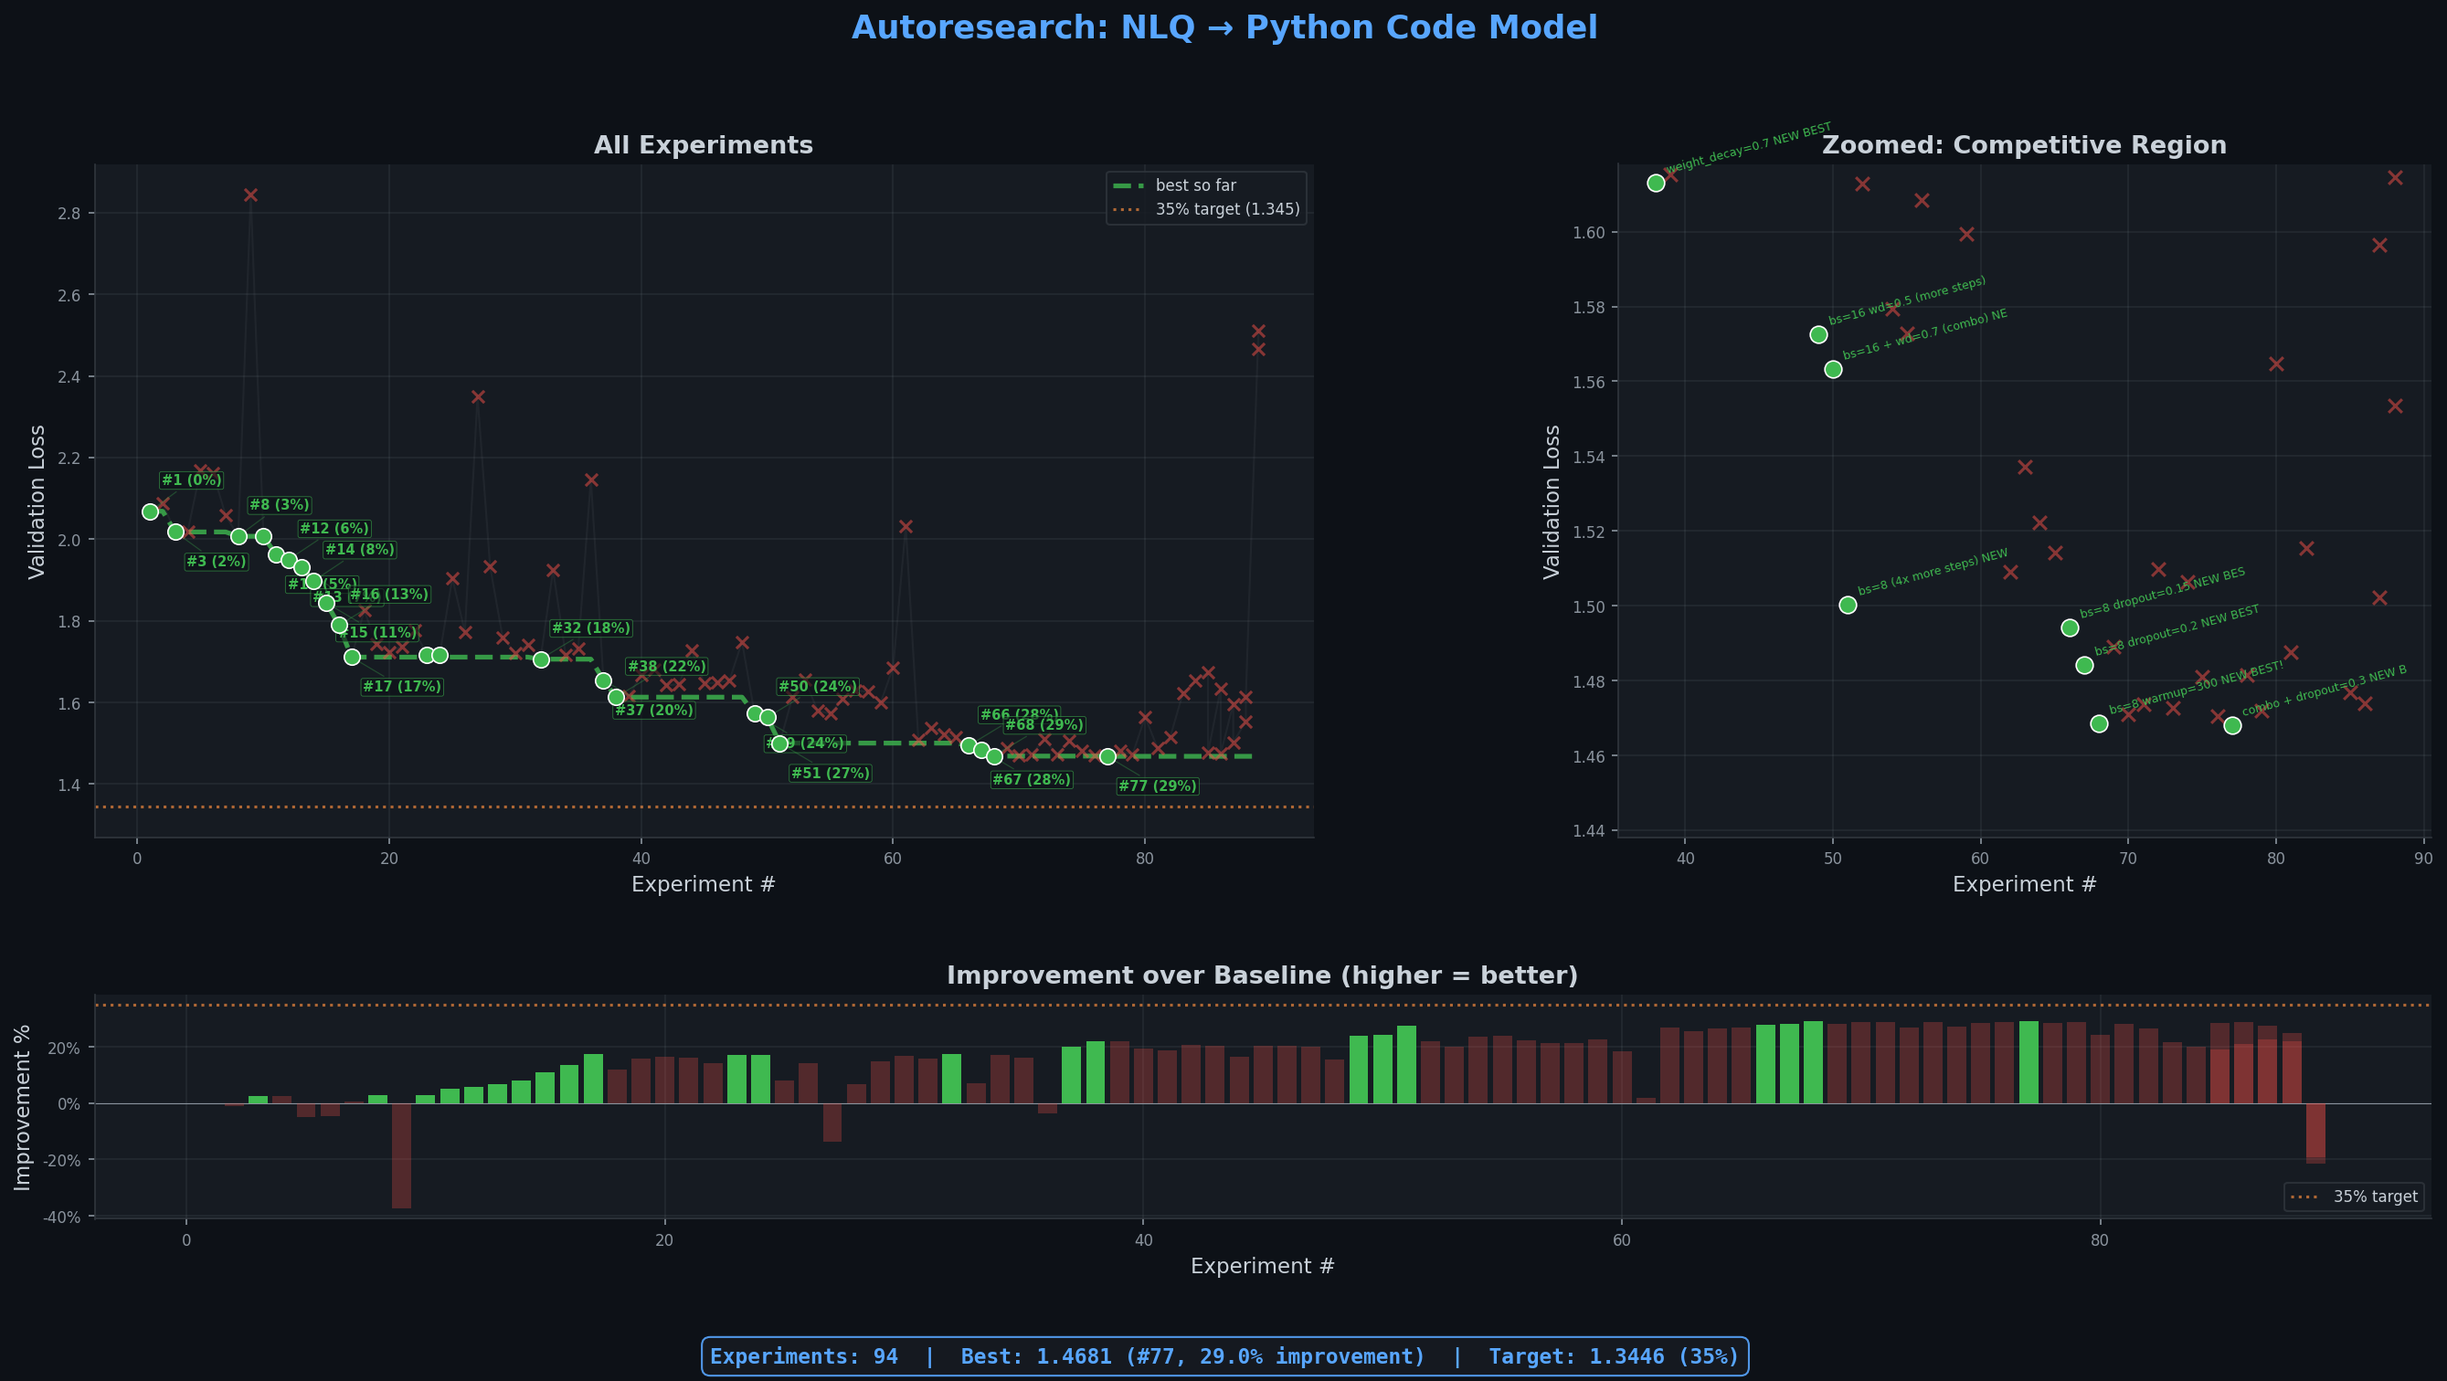
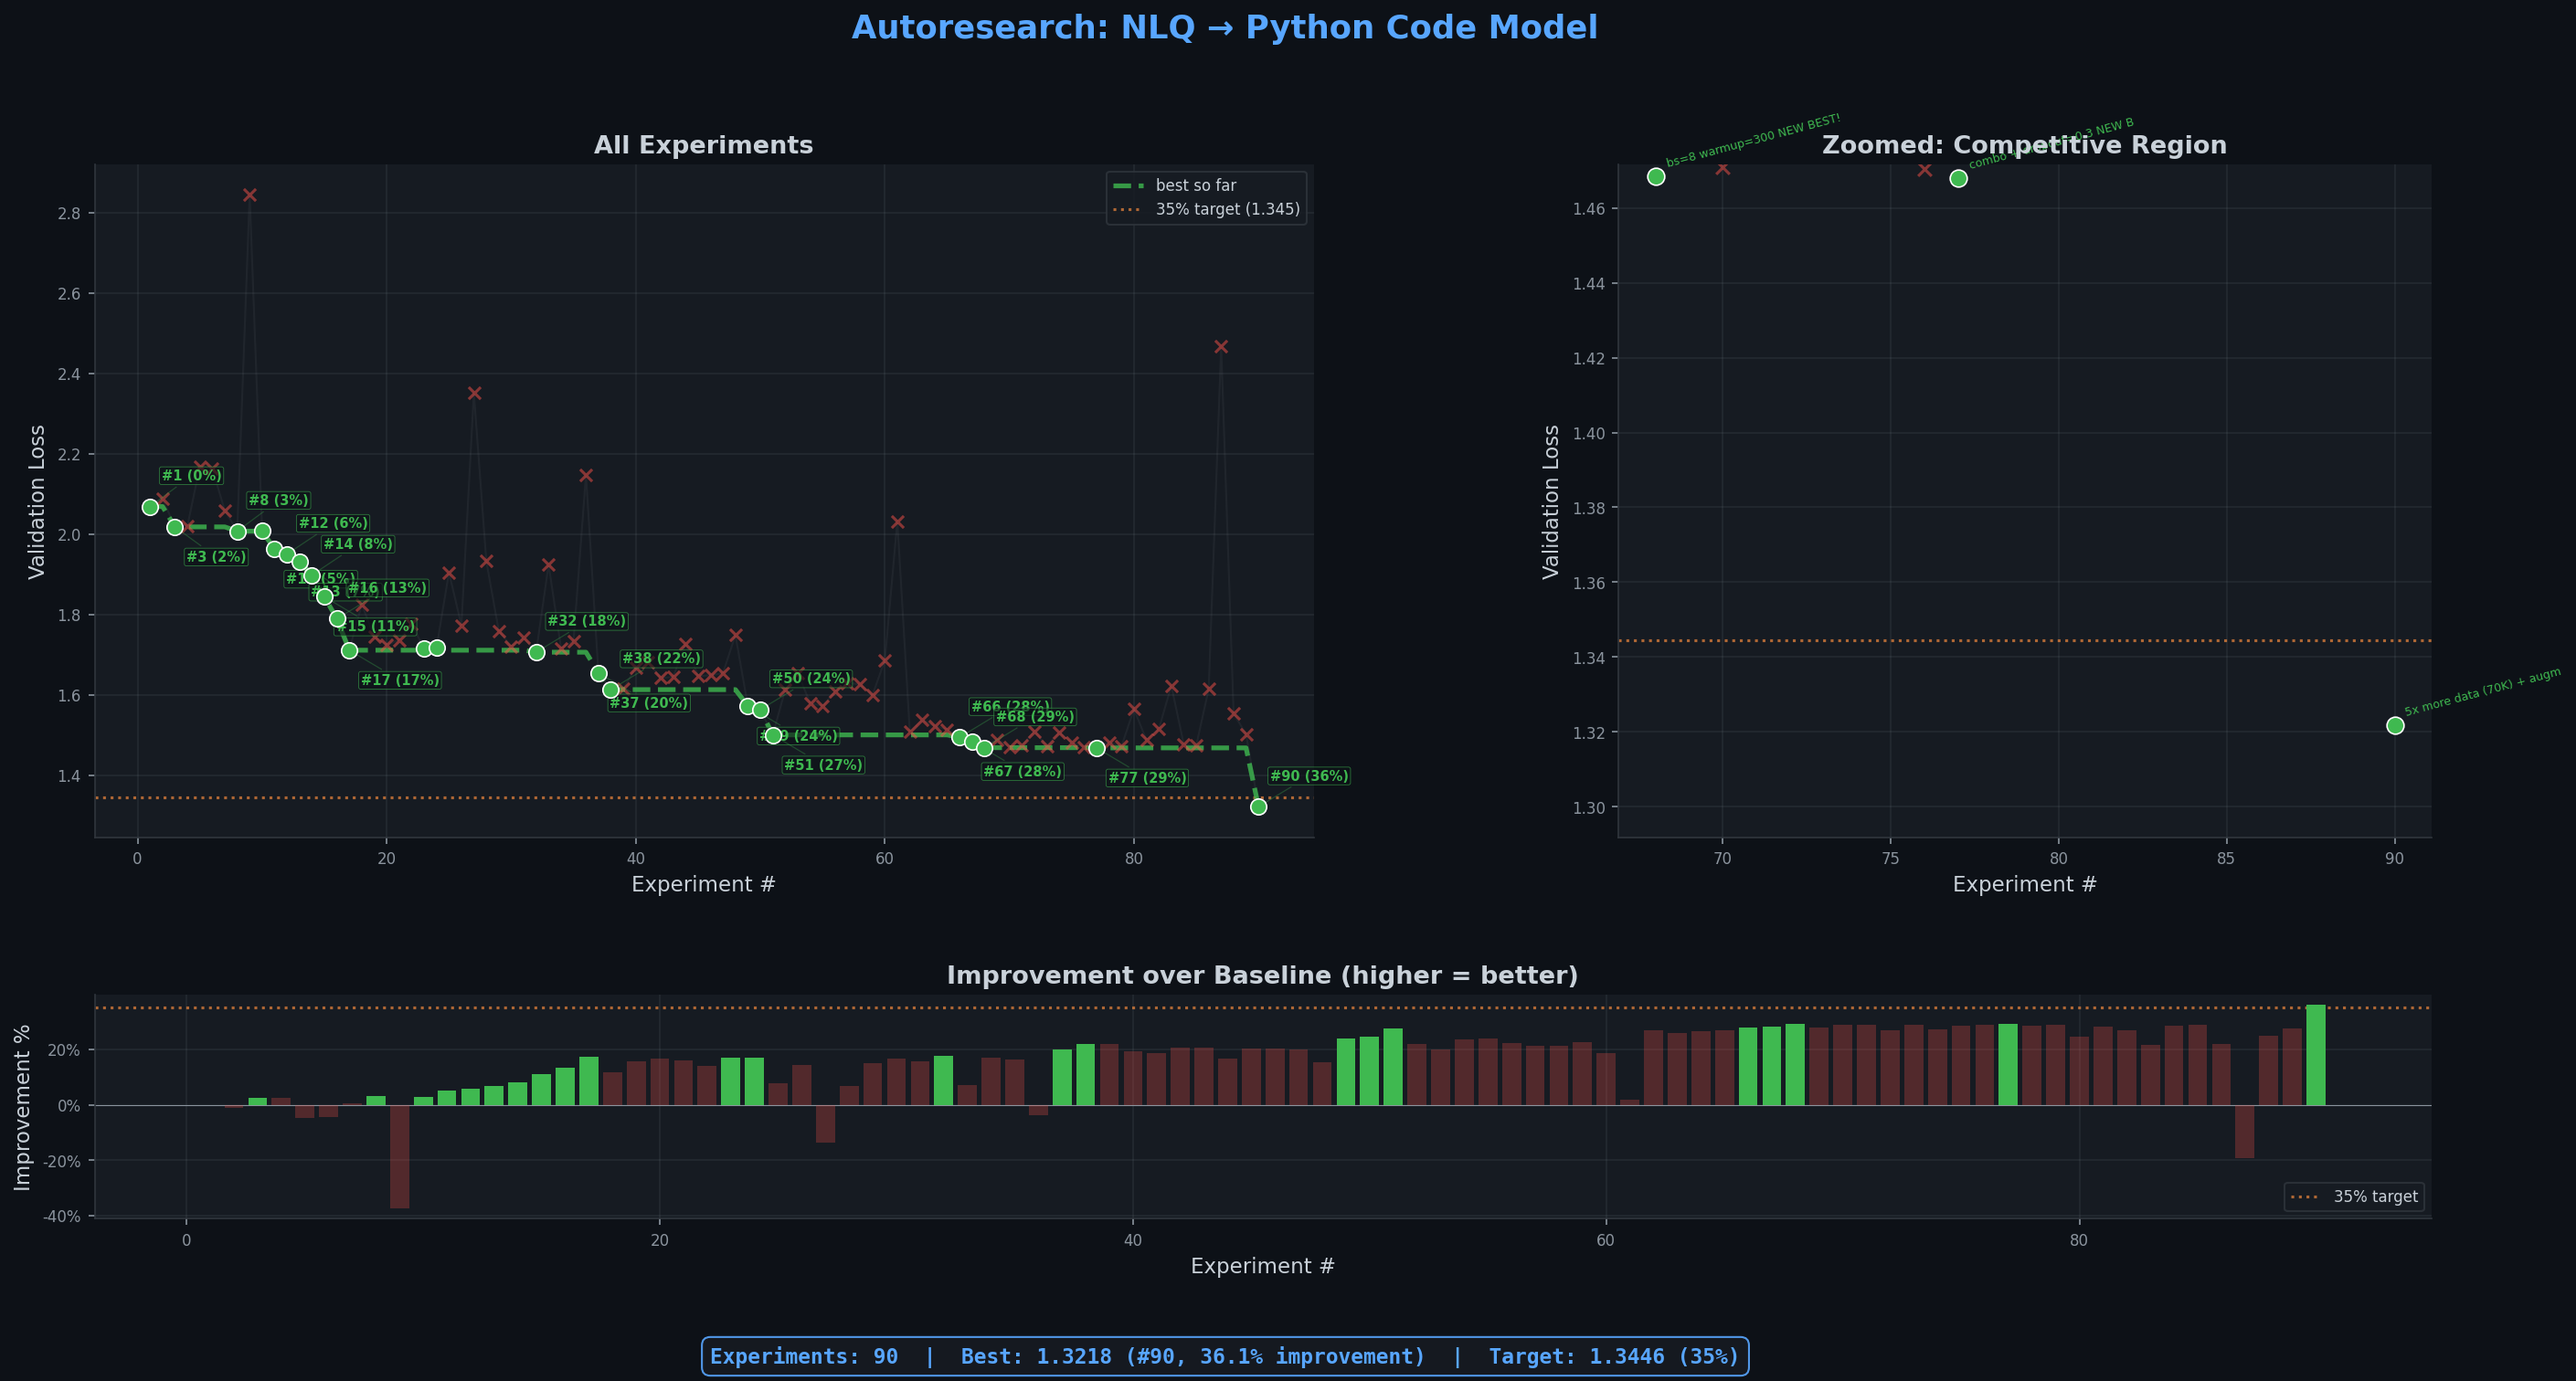
exp 090: 36.1% improvement! 5x more data + augmentation hits 35% target
- Added Evol-Instruct-Code-80k dataset (38.5K Python examples)
- Added instruction augmentation (rephrasing: "Write" -> "Create/Implement/Define")
- 70.6K unique training examples (up from 14.5K)
- Val set kept identical (1,452 examples from original split) for fair comparison
- 10 min training, bs=8, dropout=0.2, wd=0.5, warmup=300
- Val loss: 1.3218 (36.1% improvement over 2.0686 baseline)

diff --git a/download_code_data.py b/download_code_data.py
@@ -37,6 +37,46 @@ def format_example(instruction, code):
     code = code.strip()
     return f"### Question\n{instruction}\n### Python Code\n{code}"
 
+def augment_examples(examples):
+    """Create augmented examples by rephrasing instructions."""
+    rephrase_prefixes = [
+        ("Write a function", "Create a function"),
+        ("Write a function", "Implement a function"),
+        ("Write a function", "Define a function"),
+        ("Write a function", "Code a function"),
+        ("Write a function", "Build a function"),
+        ("Write a program", "Create a program"),
+        ("Write a program", "Implement a program"),
+        ("Write a Python", "Create a Python"),
+        ("Write a Python", "Implement a Python"),
+        ("Write code", "Create code"),
+        ("Write code", "Implement code"),
+    ]
+    augmented = []
+    random.seed(123)  # deterministic augmentation
+    for ex in examples:
+        # Extract instruction from format: "### Question\n{instruction}\n### Python Code\n{code}"
+        parts = ex.split("### Python Code\n", 1)
+        if len(parts) != 2:
+            continue
+        q_part = parts[0]  # "### Question\n{instruction}\n"
+        code = parts[1]
+        instruction = q_part.replace("### Question\n", "").strip()
+
+        # Try each rephrase
+        for old, new in rephrase_prefixes:
+            if instruction.startswith(old):
+                new_instruction = instruction.replace(old, new, 1)
+                augmented.append(format_example(new_instruction, code))
+                break  # one augmentation per example
+        else:
+            # For non-"Write" instructions, add "In Python, " prefix
+            if random.random() < 0.3 and not instruction.startswith("In Python"):
+                augmented.append(format_example(f"In Python, {instruction[0].lower()}{instruction[1:]}", code))
+
+    return augmented
+
+
 def collect_examples():
     """Collect examples from multiple sources."""
     examples = []
@@ -82,11 +122,67 @@ def collect_examples():
     except Exception as e:
         print(f"  Failed to download MBPP: {e}")
 
-    # 3. Generate some synthetic simple examples for more data
+    # 3. Evol-Instruct Code (WizardCoder-style evolved instructions)
+    print("\n--- Evol-Instruct-Code-80k (Python subset) ---")
+    url = "https://huggingface.co/datasets/nickrosh/Evol-Instruct-Code-80k-v1/resolve/main/EvolInstruct-Code-80k.json"
+    try:
+        data = download_json(url)
+        count = 0
+        for item in data:
+            instruction = item.get("instruction", "")
+            output = item.get("output", "")
+            if not output or len(output) < 20:
+                continue
+            # Filter for Python
+            python_markers = ["def ", "import ", "print(", "class ", "return ", " = ", "lambda ", "for ", "while "]
+            # Must look like Python (not Java, C++, etc.)
+            non_python = ["public static", "System.out", "#include", "cout <<", "console.log", "func ", "fn "]
+            if any(m in output for m in python_markers) and not any(m in output for m in non_python):
+                # Skip very long examples (> 1500 chars) to keep seq_len manageable
+                formatted = format_example(instruction, output)
+                if len(formatted) < 2000:
+                    examples.append(formatted)
+                    count += 1
+        print(f"  Collected {count} Python examples from Evol-Instruct-Code")
+    except Exception as e:
+        print(f"  Failed to download Evol-Instruct-Code: {e}")
+
+    # 4. Code Instructions from Alpaca (120k)
+    print("\n--- Code-Instructions-120k (Python subset) ---")
+    url = "https://huggingface.co/datasets/TokenBender/code_instructions_122k_alpaca_style/resolve/main/data.json"
+    try:
+        data = download_json(url)
+        count = 0
+        for item in data:
+            instruction = item.get("instruction", "")
+            output = item.get("output", "")
+            inp = item.get("input", "")
+            if not output or len(output) < 20:
+                continue
+            if inp:
+                instruction = f"{instruction}\nInput: {inp}"
+            python_markers = ["def ", "import ", "print(", "class ", "return ", " = ", "lambda "]
+            non_python = ["public static", "System.out", "#include", "cout <<", "console.log"]
+            if any(m in output for m in python_markers) and not any(m in output for m in non_python):
+                formatted = format_example(instruction, output)
+                if len(formatted) < 2000:
+                    examples.append(formatted)
+                    count += 1
+        print(f"  Collected {count} Python examples from Code-Instructions-120k")
+    except Exception as e:
+        print(f"  Failed to download Code-Instructions-120k: {e}")
+
+    # 5. Generate some synthetic simple examples for more data
     print("\n--- Synthetic examples ---")
     synthetic = generate_synthetic_examples()
     examples.extend(synthetic)
     print(f"  Generated {len(synthetic)} synthetic examples")
+
+    # 6. Data augmentation — rephrase instructions
+    print("\n--- Augmenting via instruction rephrasing ---")
+    augmented = augment_examples(examples)
+    examples.extend(augmented)
+    print(f"  Generated {len(augmented)} augmented examples")
 
     return examples
 
@@ -152,8 +248,13 @@ def generate_synthetic_examples():
     return examples
 
 
-def save_as_shards(examples, num_train_shards=5):
-    """Save examples as parquet shards in the data directory."""
+def save_as_shards(examples, original_examples=None, num_train_shards=5):
+    """Save examples as parquet shards in the data directory.
+
+    If original_examples is provided, the val set is derived from the original
+    examples only (same seed=42 split) to keep val comparable across runs.
+    New examples (in `examples` but not in original) go only to training.
+    """
     os.makedirs(DATA_DIR, exist_ok=True)
 
     # Clear old data and tokenizer
@@ -164,16 +265,32 @@ def save_as_shards(examples, num_train_shards=5):
         for f in os.listdir(TOKENIZER_DIR):
             os.remove(os.path.join(TOKENIZER_DIR, f))
 
+    if original_examples is not None:
+        # Reproduce the original val split exactly
+        orig = list(original_examples)
+        random.seed(42)
+        random.shuffle(orig)
+        val_size = max(len(orig) // 10, 50)
+        val_examples = orig[-val_size:]
+        orig_train = orig[:-val_size]
+
+        # Val set as a set for dedup
+        val_set = set(val_examples)
+        # All examples minus val = training (includes new data)
+        train_examples = [e for e in examples if e not in val_set]
+        print(f"  Val set: {len(val_examples)} (from original split, unchanged)")
+        print(f"  Train set: {len(train_examples)} unique (original + new data)")
+    else:
+        random.seed(42)
+        random.shuffle(examples)
+        val_size = max(len(examples) // 10, 50)
+        train_examples = examples[:-val_size]
+        val_examples = examples[-val_size:]
+
+    # Duplicate training data for more exposure
+    repetitions = 20
+    train_examples = train_examples * repetitions
     random.seed(42)
-    random.shuffle(examples)
-
-    # Split: last portion for validation
-    val_size = max(len(examples) // 10, 50)
-    train_examples = examples[:-val_size]
-    val_examples = examples[-val_size:]
-
-    # Duplicate training data to have more tokens (small dataset, repeat it)
-    train_examples = train_examples * 10  # 10x repetition — more exposure
     random.shuffle(train_examples)
 
     # Save training shards
@@ -187,23 +304,60 @@ def save_as_shards(examples, num_train_shards=5):
         pq.write_table(table, path)
         print(f"  Saved {path} ({len(shard_examples)} examples)")
 
-    # Save validation shard (shard_00005 = VAL_SHARD in modified prepare.py)
+    # Save validation shard
     val_table = pa.table({"text": val_examples})
     val_path = os.path.join(DATA_DIR, f"shard_{num_train_shards:05d}.parquet")
     pq.write_table(val_table, val_path)
     print(f"  Saved {val_path} ({len(val_examples)} validation examples)")
 
     print(f"\nTotal: {len(train_examples)} train, {len(val_examples)} val examples")
-    print(f"Unique train examples: {len(train_examples) // 5}")
+    print(f"Unique train examples: {len(train_examples) // repetitions}")
+
+
+def collect_original_examples():
+    """Collect only the original sources (CodeAlpaca + MBPP + synthetic).
+    This reproduces the exact same dataset used for the original val split.
+    """
+    examples = []
+
+    # 1. CodeAlpaca-20k (same as before)
+    url = "https://huggingface.co/datasets/sahil2801/CodeAlpaca-20k/resolve/main/code_alpaca_20k.json"
+    try:
+        data = download_json(url)
+        for item in data:
+            instruction = item.get("instruction", "")
+            output = item.get("output", "")
+            inp = item.get("input", "")
+            if not output or len(output) < 10:
+                continue
+            if inp:
+                instruction = f"{instruction}\nInput: {inp}"
+            python_markers = ["def ", "import ", "print(", "for ", "while ", "if ", "class ", "return ", " = ", "lambda "]
+            if any(m in output for m in python_markers):
+                examples.append(format_example(instruction, output))
+    except Exception:
+        pass
+
+    # 2. Synthetic
+    examples.extend(generate_synthetic_examples())
+    return examples
 
 
 if __name__ == "__main__":
     print("=== Downloading NLQ -> Python Code Dataset ===\n")
-    examples = collect_examples()
-    print(f"\nTotal collected: {len(examples)} examples")
+
+    # First collect original sources (for stable val split)
+    print("--- Collecting original sources (for val split) ---")
+    original_examples = collect_original_examples()
+    print(f"  Original sources: {len(original_examples)} examples")
+
+    # Then collect everything (original + new)
+    print("\n--- Collecting all sources ---")
+    all_examples = collect_examples()
+    print(f"\nTotal collected: {len(all_examples)} examples")
 
     print("\n=== Saving as parquet shards ===\n")
-    save_as_shards(examples, num_train_shards=5)
+    save_as_shards(all_examples, original_examples=original_examples, num_train_shards=5)
 
     print("\n=== Done! ===")
     print("Next steps:")

diff --git a/train_mlx.py b/train_mlx.py
@@ -43,16 +43,16 @@ N_HEAD = N_EMBD // HEAD_DIM  # 5
 N_KV_HEAD = N_HEAD
 MLP_RATIO = 4
 USE_SWIGLU = False
-DROPOUT = 0.3
+DROPOUT = 0.2
 
 # Training
 BATCH_SIZE = 8
 LEARNING_RATE = 3e-3
 WEIGHT_DECAY = 0.5
 WARMUP_STEPS = 300
-TIME_BUDGET = 300
+TIME_BUDGET = 600
 GRAD_CLIP = 1.0
-DECAY_STEPS = 5000
+DECAY_STEPS = 8000
 USE_LION = False
 
 # ---------------------------------------------------------------------------
